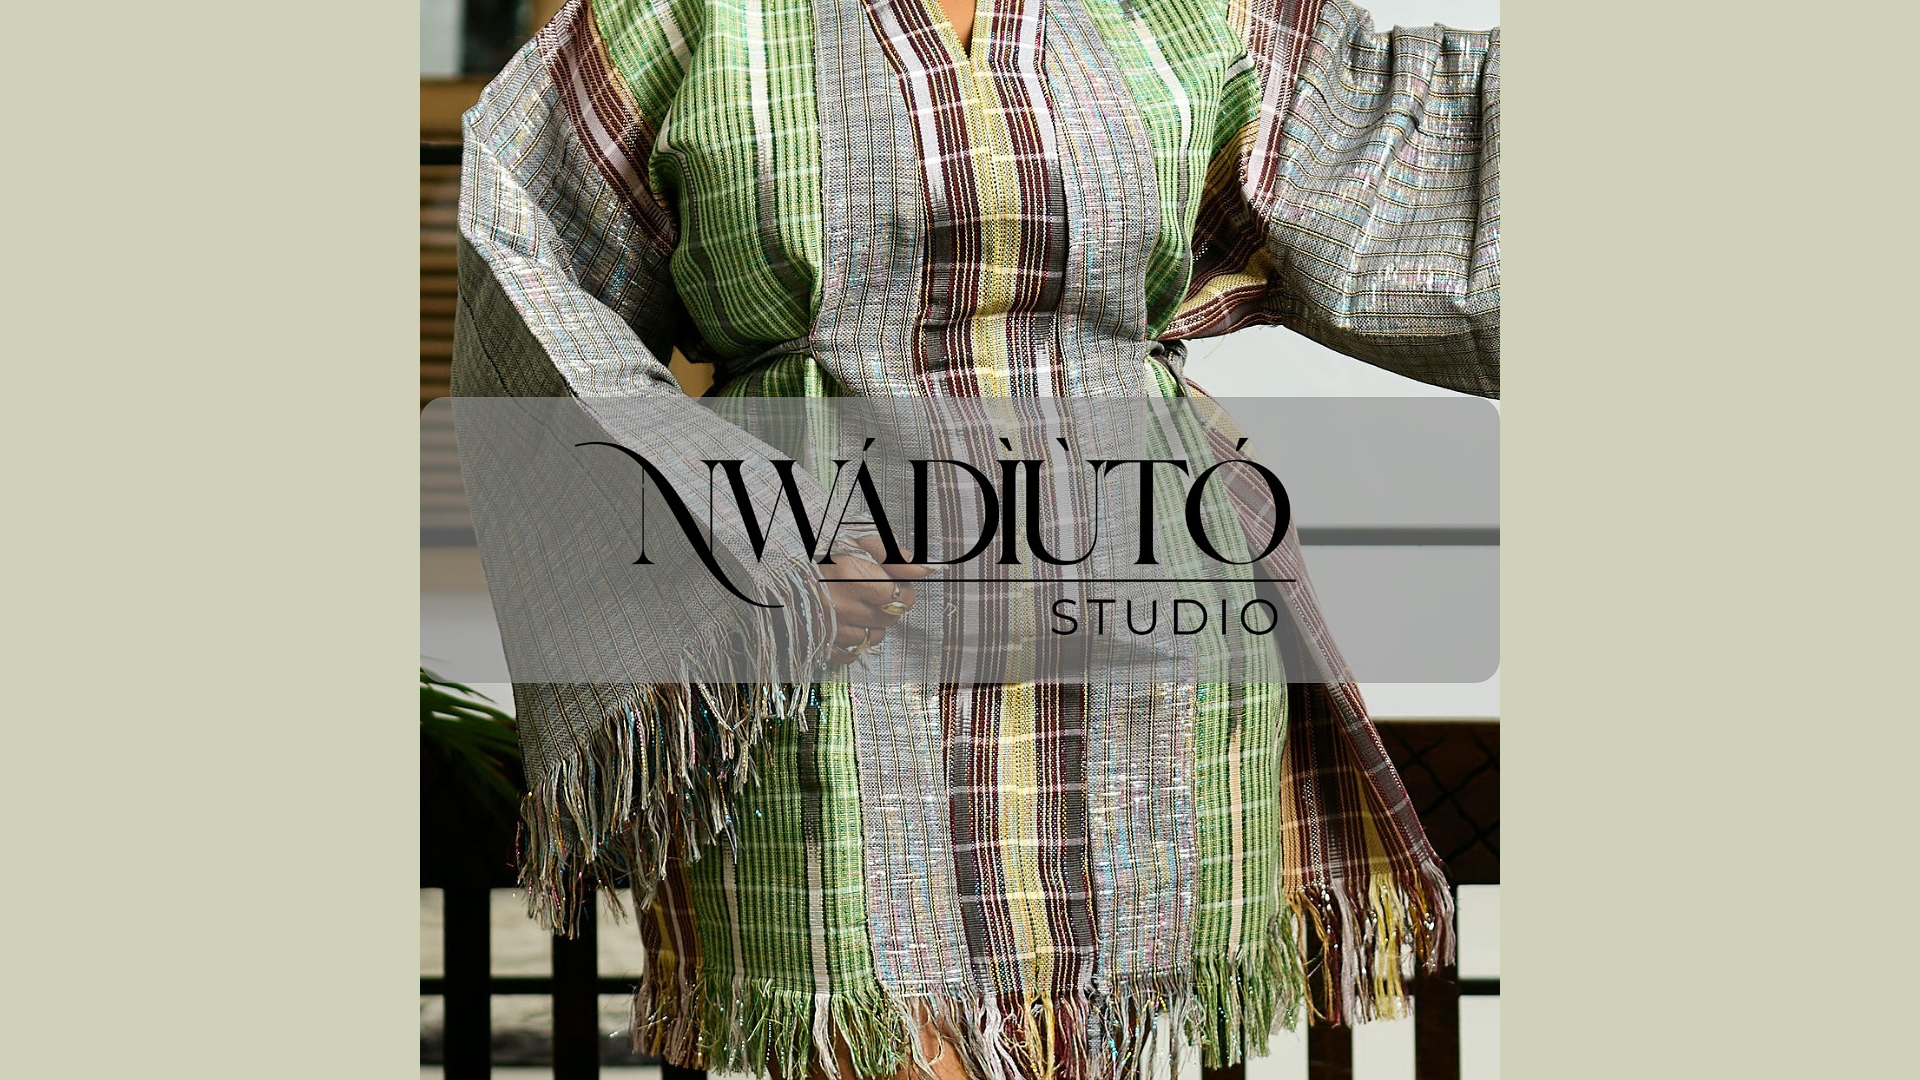
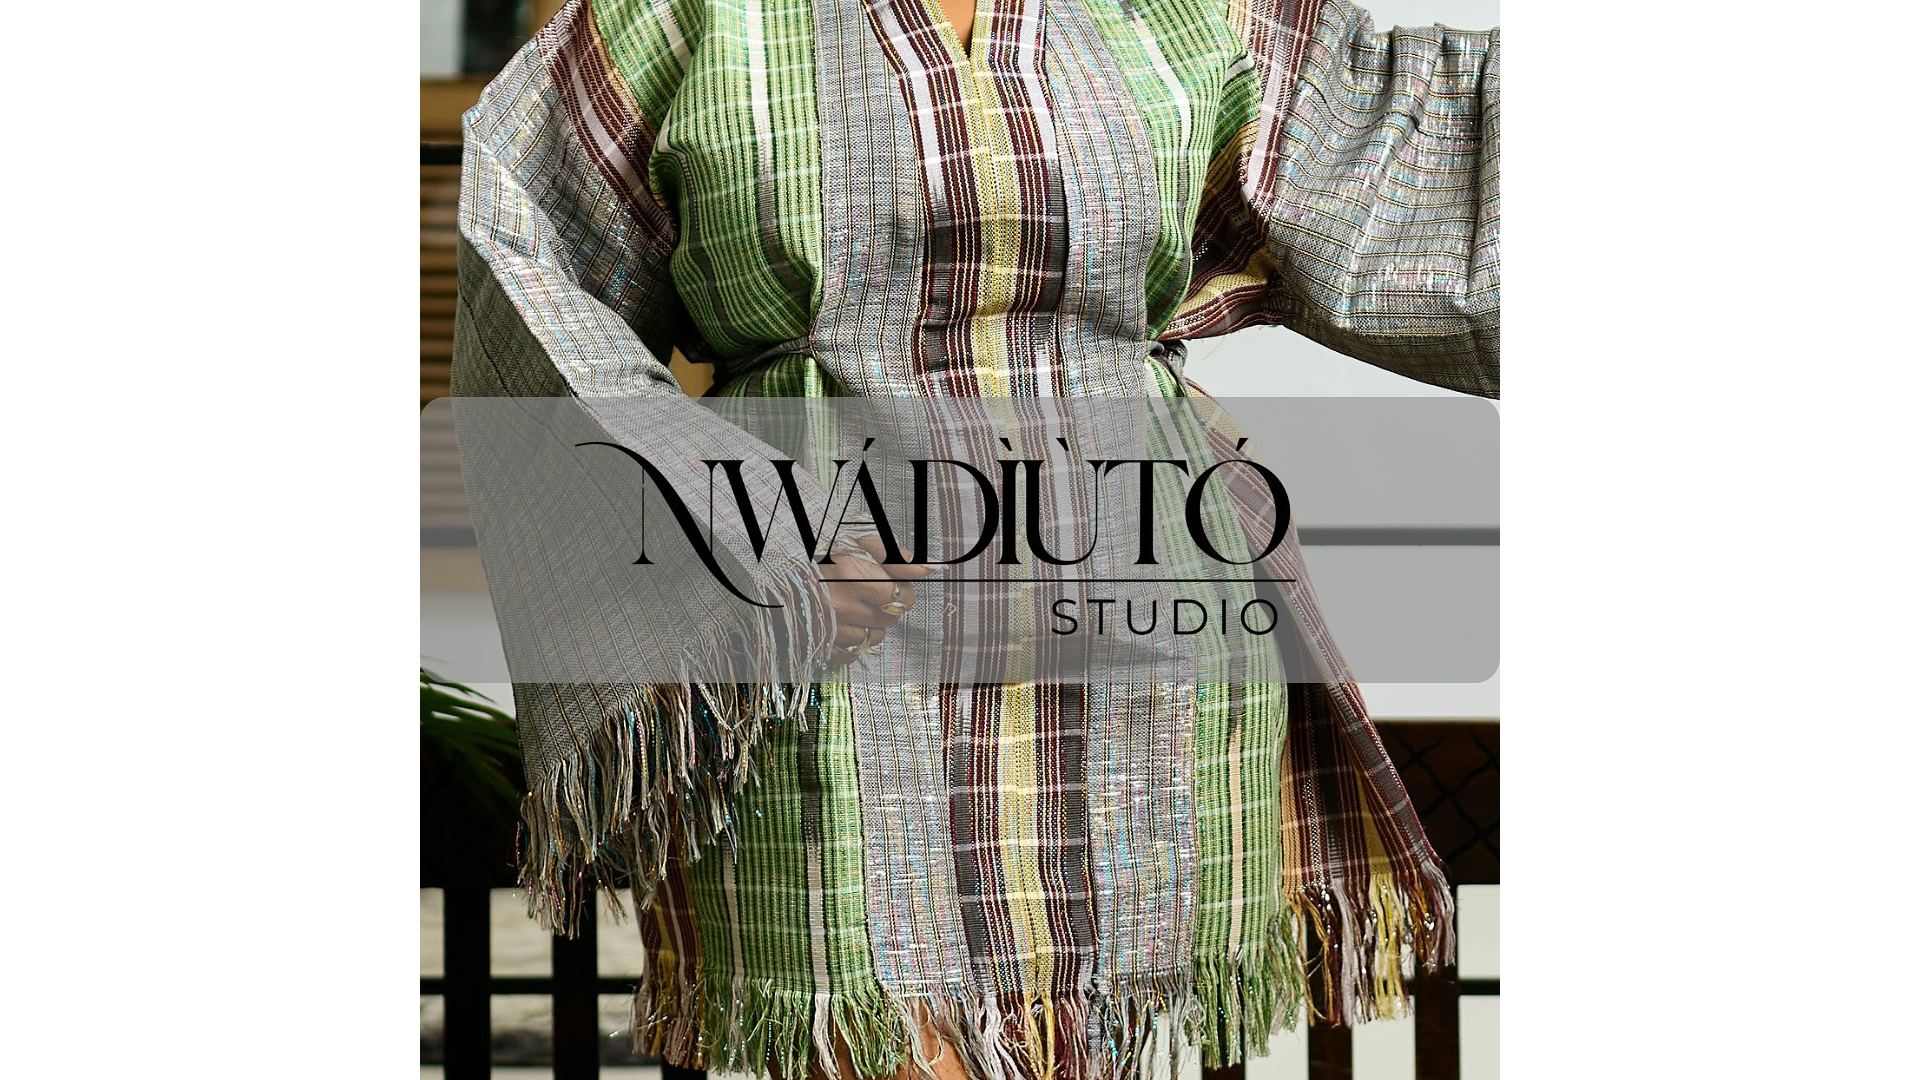
modified: seveal files

diff --git a/client/src/components/Hero.tsx b/client/src/components/Hero.tsx
@@ -1,77 +1,69 @@
-import { motion } from 'framer-motion';
-import { Button } from '@/components/ui/button';
+import { useEffect, useState } from "react";
+import { ChevronLeft, ChevronRight } from "lucide-react";
+
+const images = [
+  "/images/hero.png",
+  "/images/hero1.png",
+  "/images/hero2.png",
+];
 
 export default function Hero() {
-  const scrollToCategories = () => {
-    const categoriesSection = document.getElementById('category');
-    categoriesSection?.scrollIntoView({ behavior: 'smooth', block: 'start' });
-  };
+  const [index, setIndex] = useState(0);
+
+  const next = () => setIndex((prev) => (prev + 1) % images.length);
+  const prev = () => setIndex((prev) => (prev - 1 + images.length) % images.length);
+
+  // 🕒 Auto-switch every 6 seconds
+  useEffect(() => {
+    const interval = setInterval(() => {
+      setIndex((prev) => (prev + 1) % images.length);
+    }, 6000);
+    return () => clearInterval(interval);
+  }, []);
 
   return (
     <section className="relative w-full overflow-hidden">
-      {/* Hero container */}
-      <motion.div
-        initial={{ opacity: 0 }}
-        animate={{ opacity: 1 }}
-        transition={{ duration: 0.8 }}
-        className="relative w-full flex items-center h-[56vh] md:h-[100vh]"
-        style={{ backgroundColor: '#cfd1b9' }} // Background fallback behind image
+      <div
+        className="relative w-full h-[56vh] md:h-[100vh]"
+        style={{ backgroundColor: "#fff" }}
       >
-        {/* Overlay for readability */}
+        {/* Overlay */}
         <div className="absolute inset-0 bg-black/40 z-10" />
 
-        {/* Hero image */}
+        {/* ⚡ Instant image switch */}
         <img
-  src="/images/hero.png"
-  alt="hero"
-  className="
-    absolute inset-0 w-full h-full
-    object-cover
-    md:object-contain
-    md:h-screen
-  "
-/>
+          key={index}
+          src={images[index]}
+          alt={`hero-${index}`}
+          className="absolute inset-0 w-full h-full object-cover md:object-contain transition-none"
+        />
 
+        {/* Arrows */}
+        <button
+          onClick={prev}
+          className="absolute left-4 top-1/2 -translate-y-1/2 z-30 text-white/80 hover:text-white transition"
+        >
+          {/*<ChevronLeft size={36} />*/}
+        </button>
+        <button
+          onClick={next}
+          className="absolute right-4 top-1/2 -translate-y-1/2 z-30 text-white/80 hover:text-white transition"
+        >
+          {/*<ChevronRight size={36} />*/}
+        </button>
 
-        {/* Hero content */}
-        {/*<div className="relative z-20 max-w-3xl px-6 mx-auto text-center text-white">
-          {/*<motion.h1
-            initial={{ y: 20, opacity: 0 }}
-            animate={{ y: 0, opacity: 1 }}
-            transition={{ delay: 0.2 }}
-            className="text-3xl sm:text-4xl md:text-5xl font-serif font-semibold"
-            data-testid="text-hero-title"
-          >
-            Glam by Amaka
-          </motion.h1>
-
-          <motion.p
-            initial={{ y: 20, opacity: 0 }}
-            animate={{ y: 0, opacity: 1 }}
-            transition={{ delay: 0.35 }}
-            className="mt-3 text-sm sm:text-base md:text-lg"
-            data-testid="text-hero-subtitle"
-          >
-            Luxury. Confidence. Glam.
-          </motion.p>
-
-          <motion.div
-            initial={{ y: 20, opacity: 0 }}
-            animate={{ y: 0, opacity: 1 }}
-            transition={{ delay: 0.5 }}
-          >
-            <Button
-              onClick={scrollToCategories}
-              variant="outline"
-              size="lg"
-              className="mt-6 bg-white text-primary border-primary/20 hover:bg-white/90"
-              data-testid="button-shop-collection"
-            >
-              Shop Our Collection
-            </Button>
-          </motion.div>
-        </div>*/}
-      </motion.div>
+        {/* Dots */}
+        <div className="absolute bottom-6 left-1/2 -translate-x-1/2 z-30 flex gap-2">
+          {images.map((_, i) => (
+            <div
+              key={i}
+              className={`w-3 h-3 rounded-full transition-all ${
+                i === index ? "bg-white" : "bg-white/50"
+              }`}
+            />
+          ))}
+        </div>
+      </div>
     </section>
   );
 }

diff --git a/client/src/components/FinalCTA.tsx b/client/src/components/FinalCTA.tsx
@@ -28,7 +28,7 @@ export default function FinalCTA() {
 
         <Button
           onClick={scrollToShop}
-          className="bg-white/20 text-primary hover:bg-white/60 border-primary/20"
+          className="bg-white/20 text-background hover:bg-white/60 border-primary/20"
           data-testid="button-final-cta"
         >
           Shop Now

diff --git a/client/src/index.css b/client/src/index.css
@@ -24,7 +24,7 @@
 
   /* Core background and text colors */
   --background: 330 20% 98%;
-  --foreground: 64 6% 30%;
+  --foreground: 0 0% 20%;
   --border: 330 15% 88%;
 
   /* Card styling (for panels, boxes, etc.) */
